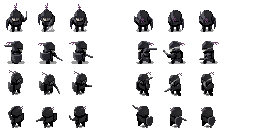
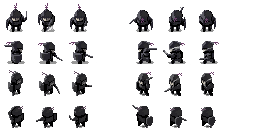
- updated animation

diff --git a/core/src/de/lfstudios/game/view/GameScreen.java b/core/src/de/lfstudios/game/view/GameScreen.java
@@ -10,6 +10,8 @@ import com.badlogic.gdx.graphics.Texture;
 import com.badlogic.gdx.graphics.g2d.SpriteBatch;
 import com.badlogic.gdx.maps.tiled.*;
 import com.badlogic.gdx.maps.tiled.renderers.OrthogonalTiledMapRenderer;
+import com.badlogic.gdx.math.Vector2;
+import com.badlogic.gdx.physics.box2d.World;
 import com.badlogic.gdx.scenes.scene2d.InputEvent;
 import com.badlogic.gdx.scenes.scene2d.InputListener;
 import com.badlogic.gdx.scenes.scene2d.Stage;
@@ -50,7 +52,14 @@ public class GameScreen implements Screen
 	private Drawable blockButtonDrawable;
 	private Drawable blockButtonActiveDrawable;
 
-	private final static int MAP_SCALE = 5;
+	private static final String MAP_DARK = "dark";
+	private static final String MAP_LIGHT = "light";
+	private static final String MAP_COLLISION_DARK = "collision_dark";
+	private static final String MAP_COLLISION_LIGHT = "collision_light";
+	private static final String MAP_HOLE_DARK = "hole_dark";
+	private static final String MAP_HOLE_LIGHT = "hole_light";
+
+	private final static int MAP_SCALE = 4;
 
 	public GameScreen(Despair game)
 	{
@@ -80,8 +89,9 @@ public class GameScreen implements Screen
 
 		this.setupMap();
 
+
 		this.player = new Player();
-		this.player.setPosition(700, 750);
+		this.player.setPosition(777 * this.MAP_SCALE, 3920 * this.MAP_SCALE);
 
 		this.attackButtonSkin = new Skin();
 		this.attackButtonSkin.add("inactive", new Texture(Gdx.files.internal("game/button_atk.png")));
@@ -112,7 +122,6 @@ public class GameScreen implements Screen
 			}
 		});
 
-
 		this.blockButtonSkin = new Skin();
 		this.blockButtonSkin.add("inactive", new Texture(Gdx.files.internal("game/button_def.png")));
 		this.blockButtonSkin.add("active", new Texture(Gdx.files.internal("game/button_def_a.png")));
@@ -132,15 +141,16 @@ public class GameScreen implements Screen
 		{
 			public boolean touchDown (InputEvent event, float x, float y, int pointer, int button)
 			{
+				map.getLayers().get(MAP_LIGHT).setVisible(true);
 				player.block();
 				return true;
 			}
 
 			public void touchUp (InputEvent event, float x, float y, int pointer, int button)
 			{
+				map.getLayers().get(MAP_LIGHT).setVisible(false);
 				player.setBlockReleased(true);
 			}
-
 		});
 
 		this.stage.addActor(this.touchpad);
@@ -151,7 +161,8 @@ public class GameScreen implements Screen
 
 	private void setupMap()
 	{
-		this.map = new TmxMapLoader().load("game/map/scene1.tmx");
+		this.map = new TmxMapLoader().load("game/map/map.tmx");
+		this.map.getLayers().get(this.MAP_LIGHT).setVisible(false);
 		this.mapRenderer = new OrthogonalTiledMapRenderer(this.map, this.MAP_SCALE);
 
 		this.mapPixelWidth = this.map.getProperties()
@@ -165,6 +176,8 @@ public class GameScreen implements Screen
 							  this.map.getProperties()
 									  .get("tileheight", Integer.class) *
 							  this.MAP_SCALE;
+
+
 	}
 
 	@Override
@@ -188,8 +201,8 @@ public class GameScreen implements Screen
 
 		this.stage.draw();
 
-
-		if (Gdx.input.isKeyPressed(Input.Keys.BACK)){
+		if (Gdx.input.isKeyPressed(Input.Keys.BACK))
+		{
 			this.exit();
 		}
 	}
@@ -198,7 +211,6 @@ public class GameScreen implements Screen
 	{
 		this.mapRenderer.setView(this.camera);
 		this.mapRenderer.render();
-
 	}
 
 	private void updateCamera()
@@ -288,7 +300,6 @@ public class GameScreen implements Screen
 	public void dispose()
 	{
 		this.backgroundMusic.stop();
-
 		this.spriteBatch.dispose();
 		this.touchpadSkin.dispose();
 		this.stage.dispose();
@@ -301,13 +312,15 @@ public class GameScreen implements Screen
 	private void exit()
 	{
 		this.backButtonSound.setVolume(0.1f);
-		this.backButtonSound.setOnCompletionListener(new Music.OnCompletionListener() {
+		this.backButtonSound.setOnCompletionListener(new Music.OnCompletionListener()
+		{
 			@Override
 			public void onCompletion(Music music)
 			{
-			backButtonSound.dispose();
+				backButtonSound.dispose();
 			}
 		});
+
 		this.backButtonSound.play();
 		this.dispose();
 		this.game.openMenu();

diff --git a/core/src/de/lfstudios/game/core/player/Player.java b/core/src/de/lfstudios/game/core/player/Player.java
@@ -26,7 +26,6 @@ public class Player
 
 	public Player()
 	{
-
 		this.standAction = new Action("game/player_run_0.png",
 									  8,
 									  4,
@@ -104,9 +103,9 @@ public class Player
 									   0.2f,
 									   false);
 
-		this.blockAction = new Action("game/player_def.png",
+		this.blockAction = new Action("game/player_def_0.png",
 									  8,
-									  8,
+									  4,
 									  0.075f,
 									  new int[][]
 										  {
@@ -149,7 +148,9 @@ public class Player
 		Vector2 v = new Vector2(x, y);
 		float angle = v.angle(new Vector2(0,1));
 
-		if( angle == 0) { this.setCurrentAction(this.standAction); // standing
+		if( angle == 0)
+		{
+			this.setCurrentAction(this.standAction); // standing
 		}
 		else if(angle >=  157.5 || angle <= -157.5)
 		{
@@ -183,9 +184,6 @@ public class Player
 		{
 			this.updateActionDirections(2); // facing up
 		}
-
-
-
 
 		if(v.len() > 0.5f && angle != 0)
 		{

diff --git a/core/src/de/lfstudios/game/core/player/Action.java b/core/src/de/lfstudios/game/core/player/Action.java
@@ -246,7 +246,6 @@ public class Action
 	 */
 	public Animation getCurrentAnimation()
 	{
-//		System.out.println("DIR: " + this.getDirection());
 		if(this.getDirection() == 1) return this.downAnimation;
 		if(this.getDirection() == 2) return this.upAnimation;
 		if(this.getDirection() == 3) return this.leftAnimation;
